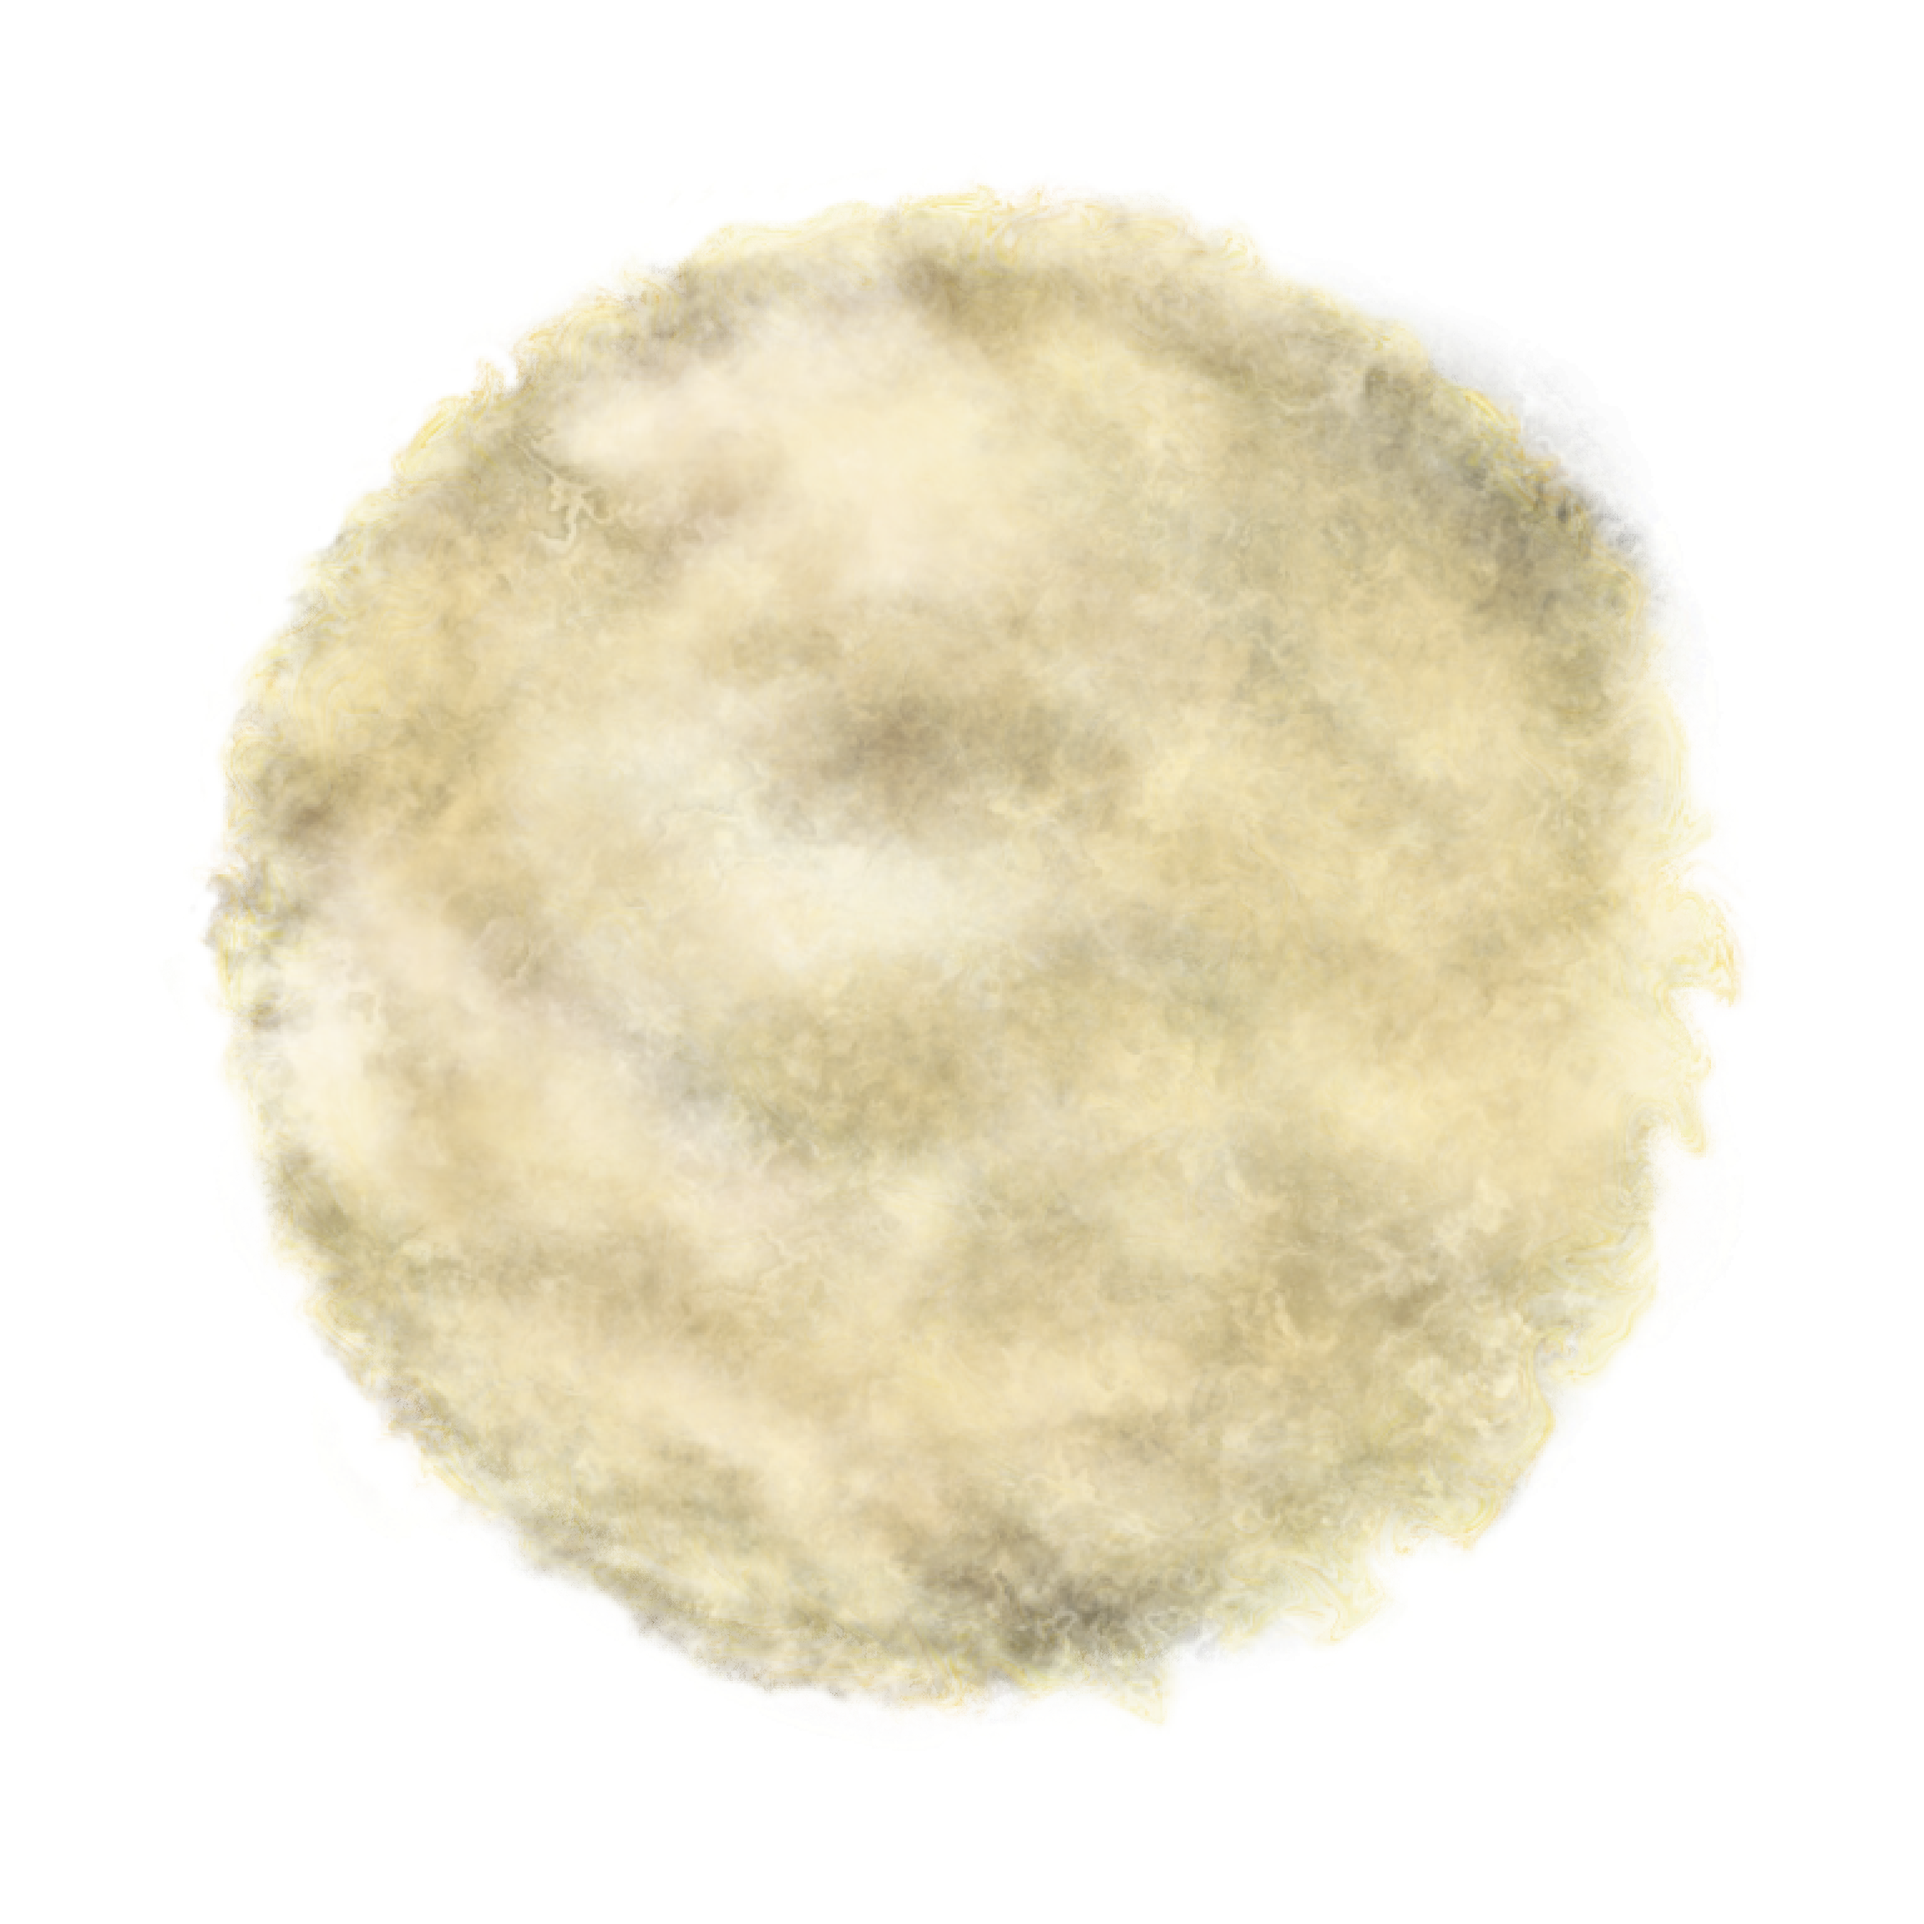
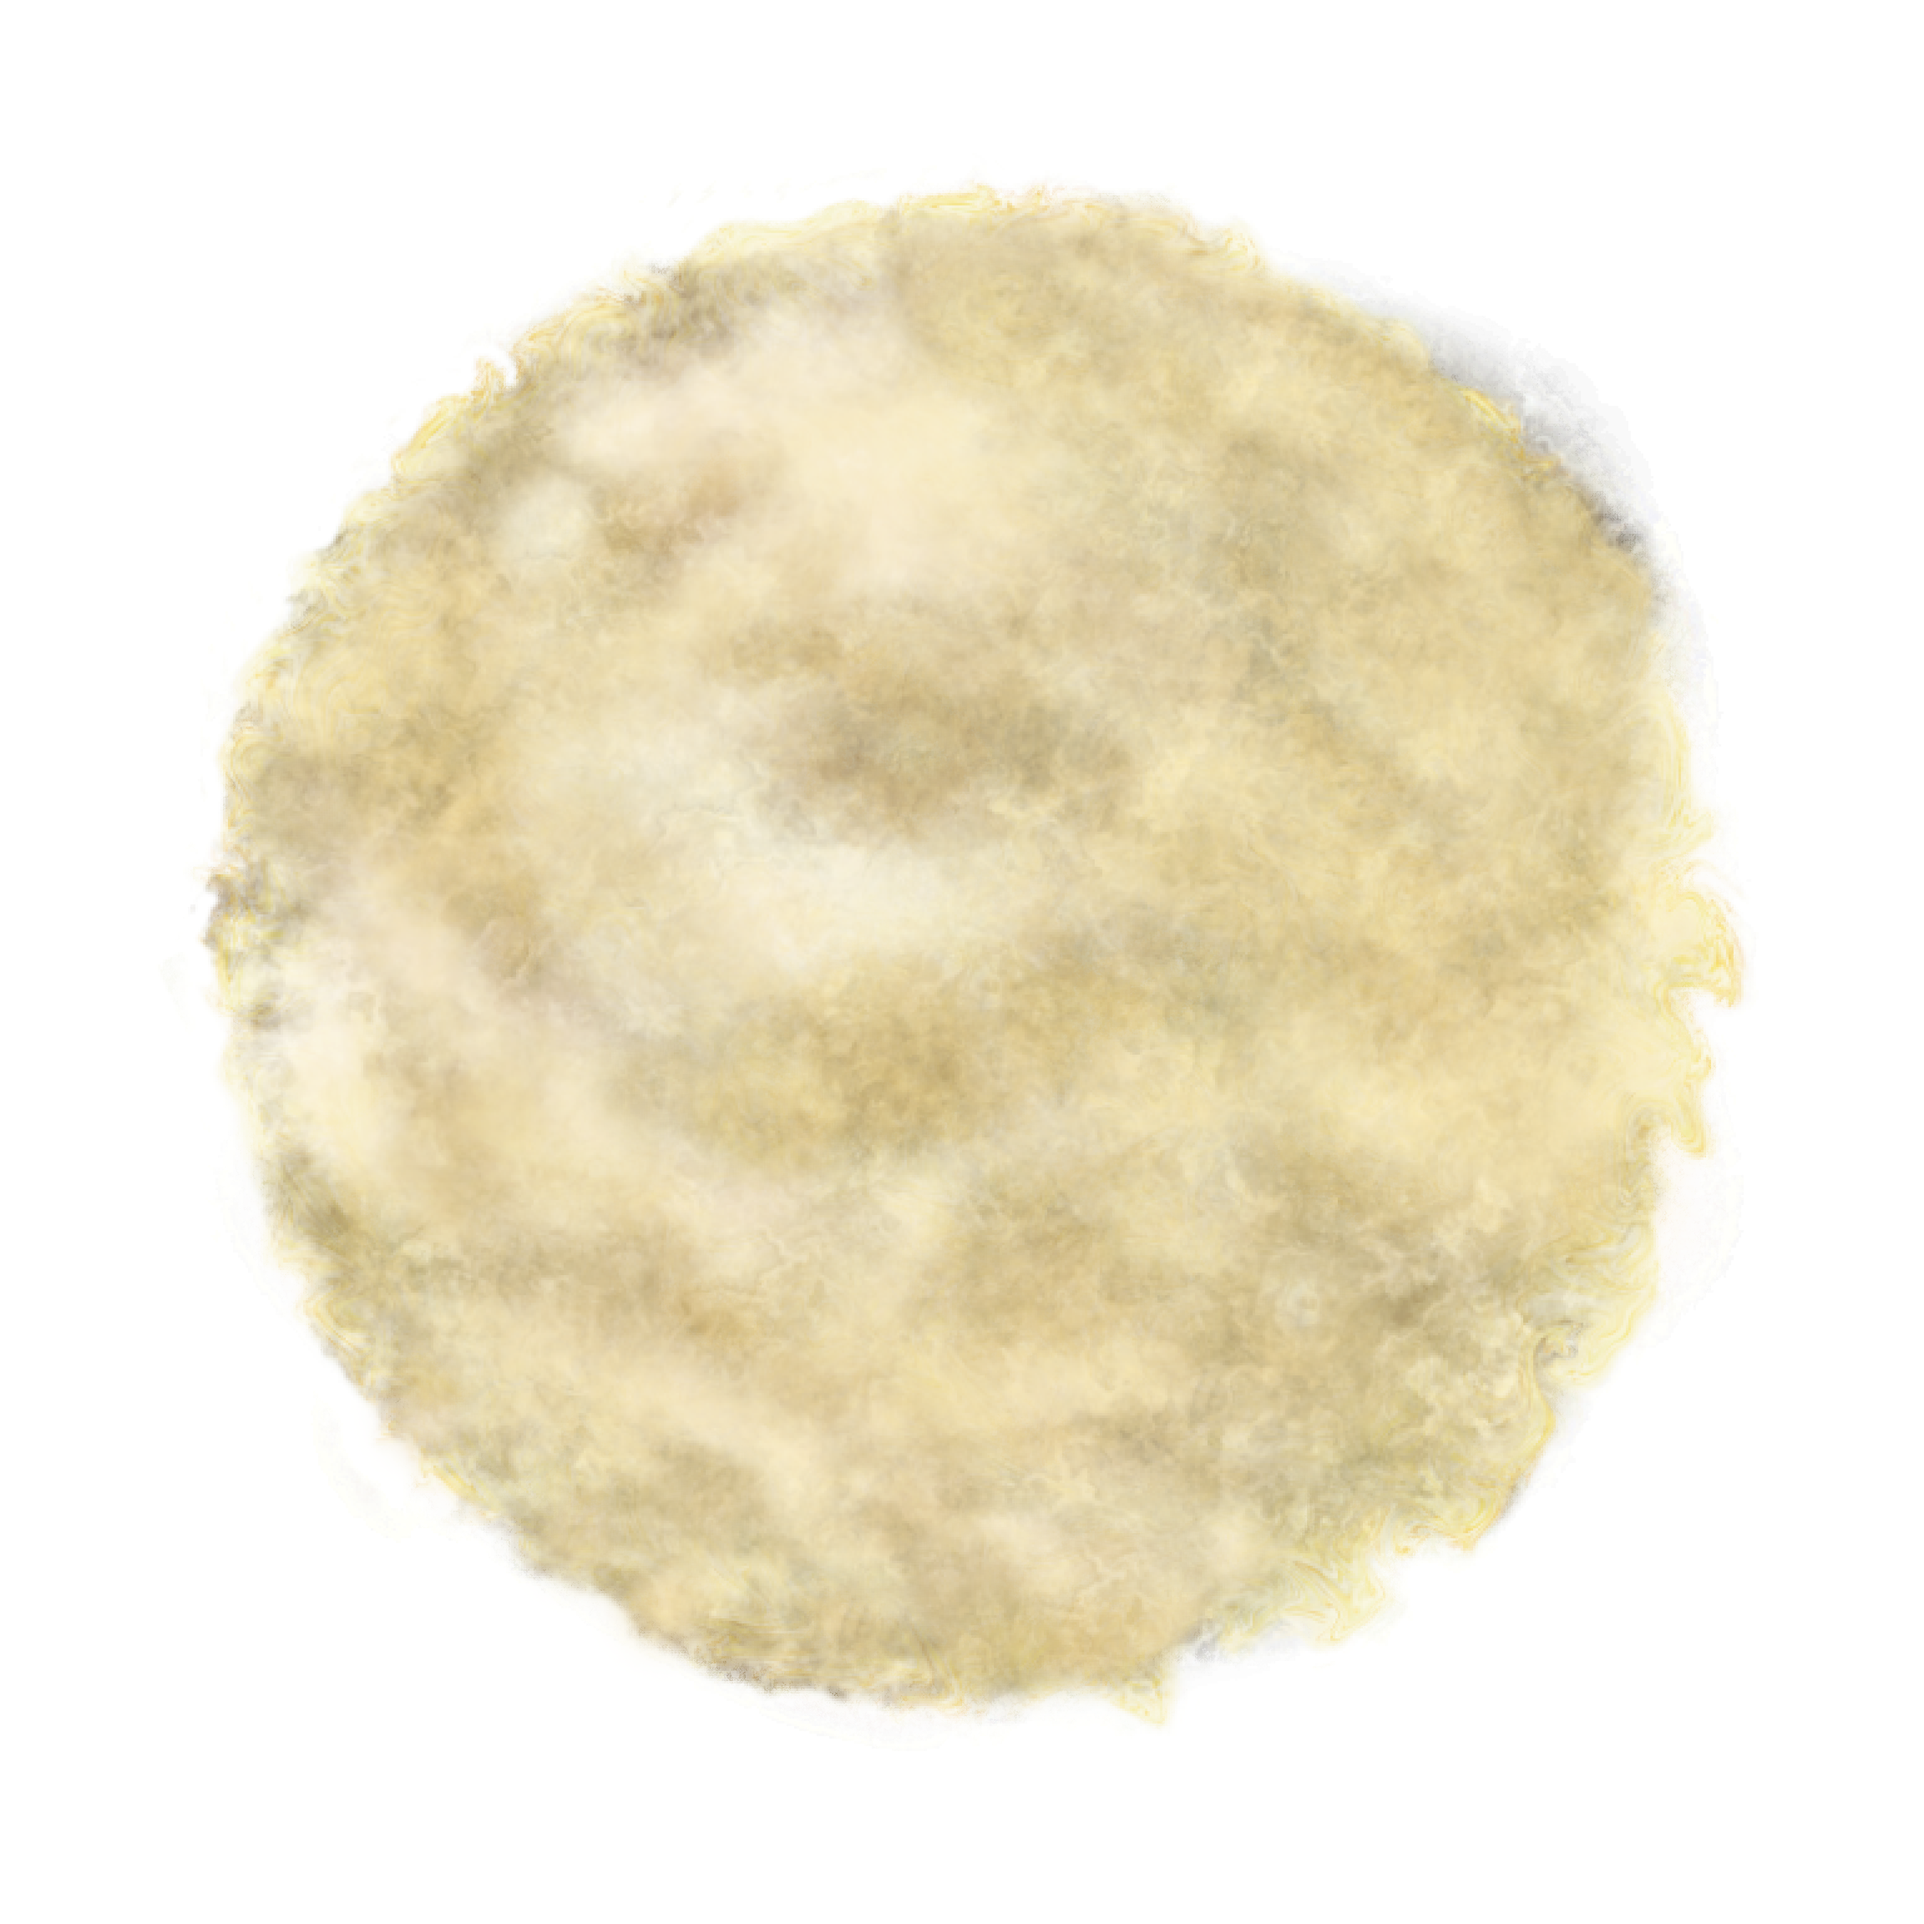
Touched up Cheese + fixed white clipping

diff --git a/app/core/natron/delivery.py b/app/core/natron/delivery.py
@@ -90,10 +90,10 @@ class Delivery(NatronBase):
         gradeNode.setColor(0.48, 0.66, 1)
         param = gradeNode.getParam("white")
         if param is not None:
-            param.setValue(1.113, 0)
-            param.setValue(1.113, 1)
-            param.setValue(1.113, 2)
-            param.setValue(1.113, 3)
+            param.setValue(1.0, 0)
+            param.setValue(1.0, 1)
+            param.setValue(1.0, 2)
+            param.setValue(1.0, 3)
         del param
 
         param = gradeNode.getParam("premult")
